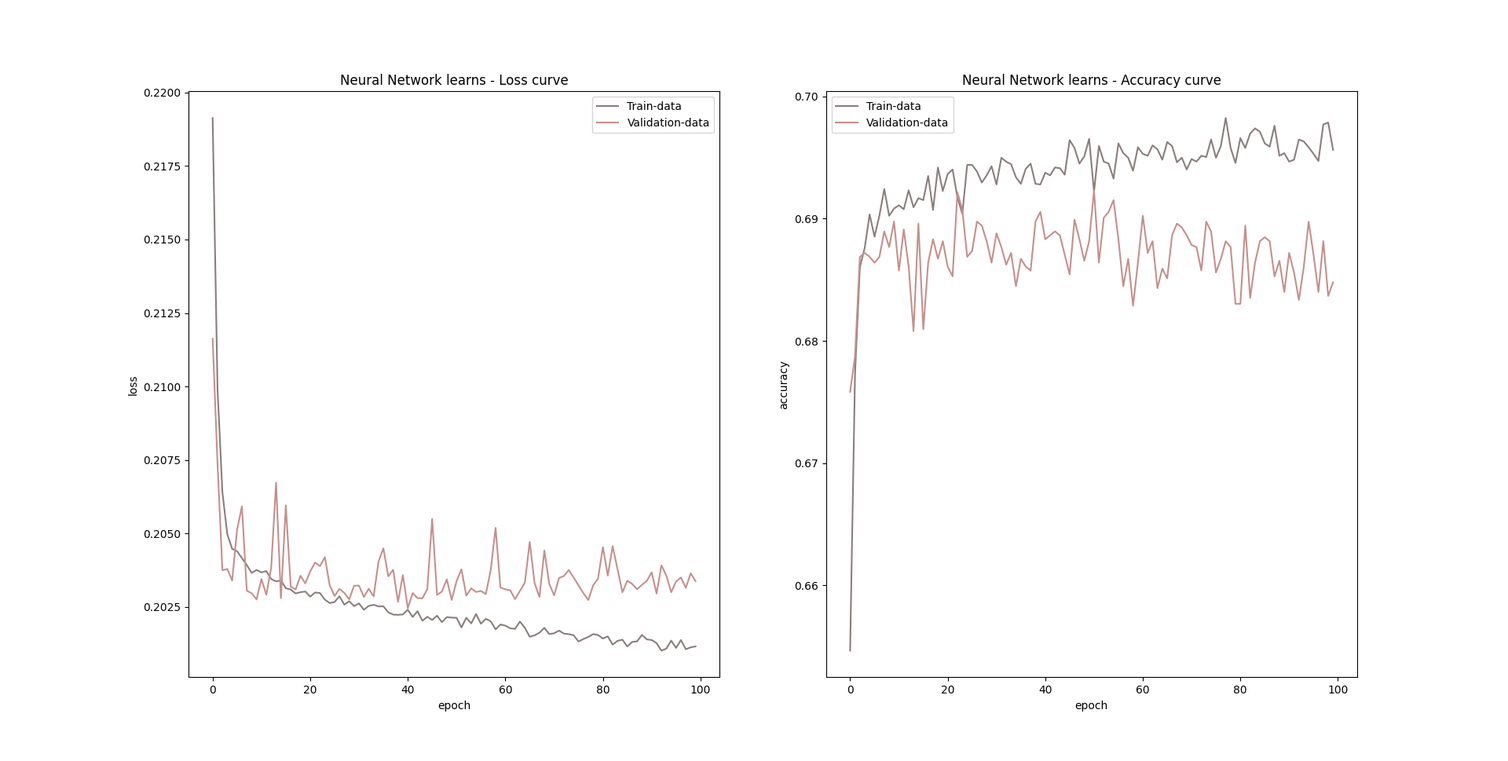
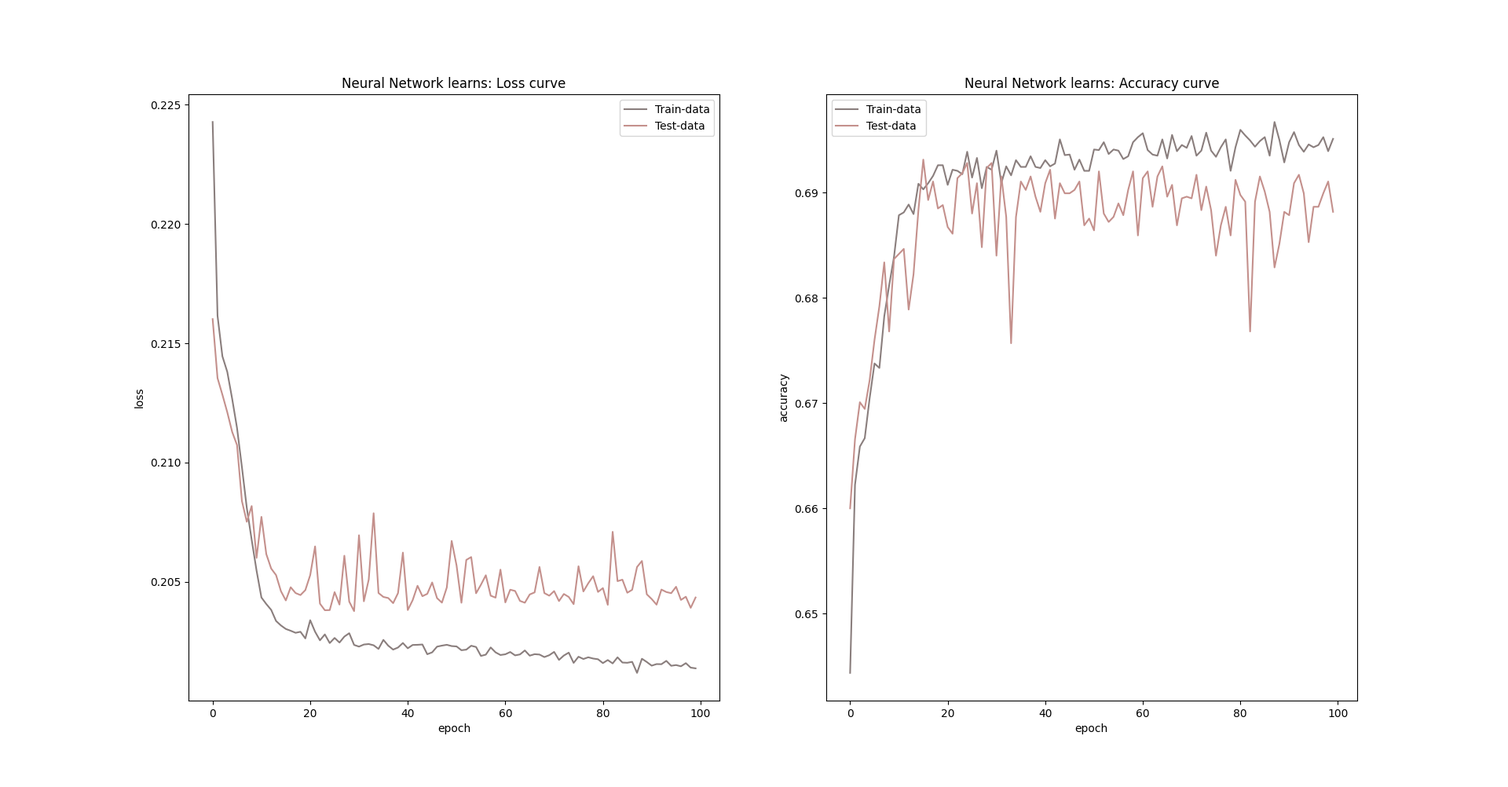
Added Readme.md

diff --git a/Studienarbeit_Data_Mining.tex b/Studienarbeit_Data_Mining.tex
@@ -110,7 +110,7 @@ isbn=false		% Keine Ausbage der ISBN
 \renewcommand*{\labelnamepunct}{\addcolon\addspace}
 
 %Zusätzliche für Umbrüche für Kleinbuchstaben z.B. in URLs
-\appto\lstinlineBreaks{\do\a\do\b\do\c\do\d\do\e\do\f\do\g\do\h\do\i\do\j
+\appto\textitBreaks{\do\a\do\b\do\c\do\d\do\e\do\f\do\g\do\h\do\i\do\j
 	\do\k\do\l\do\m\do\n\do\o\do\p\do\q\do\r\do\s\do\t\do\u\do\v\do\w
 	\do\x\do\y\do\z}
 
@@ -310,36 +310,36 @@ isbn=false		% Keine Ausbage der ISBN
 	\section{Vorwort}
 		\label{ch:vorwort}
 
-	Ziel dieser Arbeit ist es, eine Analyse zu diesem Datensatz: \linebreak \url{https://www.kaggle.com/datasets/muhammad4hmed/monkeypox-patients-dataset}  
-	zu liefern. Der Datensatz behandelt das Thema Affenpocken, dabei sind unterschiedliche Symptomatiken als Feautres gegeben, eine Spalte stellt dar, ob 
-	der Patient an positiv oder negativ auf Affenpocken getestet wurde.
+Ziel dieser Arbeit ist es, eine Analyse zu diesem Datensatz: \linebreak \url{https://www.kaggle.com/datasets/muhammad4hmed/monkeypox-patients-dataset}  
+zu liefern. Der Datensatz behandelt das Thema Affenpocken, dabei sind unterschiedliche Symptomatiken als Feautres gegeben, die Ergebnis-Spalte stellt dar, ob 
+der Patient an positiv oder negativ auf Affenpocken getestet wurde.
 
-	Es findet eine Analyse des vorliegenden Datensatzes statt.  Die Daten werden visuell in Form von Diagrammen aufbereitet und die grobe Werteverteilungen
-	der Symptome beziehungsweise Features vorgestellt. Zudem findet eine Korrelationsanalyse statt, in welcher die 
-	Daten auf gegenseitige Zusammenhänge geprüft werden statt. Danach werden die Daten getestet sowie trainiert, die
-	verwendeten Modelle als auch entsprechenden Genauigkeiten dargestellt. Der letzte Schritt dieser Studienarbeit,
-	besteht daraus, dass ein Neuronales Netz auf die Daten angewendet wird und die entsprechenden Genauigkeiten
-	berechent werden. 
+Es findet eine Analyse des vorliegenden Datensatzes statt.  Die Daten werden visuell in Form von Diagrammen aufbereitet und die grobe Werteverteilungen
+der Symptome beziehungsweise Features vorgestellt. Zudem findet eine Korrelationsanalyse statt, in welcher die 
+Daten auf gegenseitige Zusammenhänge geprüft werden statt. Danach werden die Daten getestet sowie trainiert, die
+verwendeten Modelle als auch entsprechenden Genauigkeiten dargestellt. Der letzte Schritt dieser Studienarbeit,
+besteht daraus, dass ein Neuronales Netz auf die Daten angewendet wird und die entsprechenden Genauigkeiten
+berechent werden. 
 
-	Binär-Klassfikation wird in dieser Studienarbeit als Anwendung verwendet. 
+Binär-Klassfikation wird in dieser Studienarbeit als Anwendung verwendet. 
 	
 
 	\section{Analyse der Daten}
 		\label{ch:analyse_daten}
 
-	In diesem Kapitel wird der Datensatz untersucht. Zunächst findet eine oberflächliche Analyse des Datensatzes statt, in dieser
-	wird festgestellt, wie viele Featues der Datensatz enthält, wie viele Zeilen und Spalten er hat. Der nächste Schritt der Analyse stellt die Korrelationsanalyse
-	statt, dabei ist das Ziel, mögliche Zusammenhänge und Korrelationen in den Features zu erkennen. 
+In diesem Kapitel wird der Datensatz untersucht. Zunächst findet eine oberflächliche Analyse des Datensatzes statt, in dieser
+wird festgestellt, wie viele Featues der Datensatz enthält, wie viele Zeilen und Spalten er hat. Der nächste Schritt der Analyse stellt die Korrelationsanalyse
+statt, dabei ist das Ziel, mögliche Zusammenhänge und Korrelationen in den Features zu erkennen. 
 
 	\subsection{Oberflächliche Datenanalyse}
 		\label{ch:oberflaechliche_analyse}
 
-	Der Datensatz weißt insgesamt 25000 Zeilen und 11 Spalten auf, davon sind 
-	neun Features, einer ist der Index und einer stellt die Ergebnis-Spalte dar. Damit Funktionen, wie \lstinline{pandas.DataFrame.replace} und 
-	\lstinline{pandas.DataFrame.query} problemlos verwendet werden können, war es notwendig, die Leerzeichen in den Spaltenbennenungen mit Unterstrichen zu ersetzen. 
-	So wurde beispielsweise \lstinline{Systmic Illness} zu \lstinline{Systemic_Illness}. \lstinline{Sexually Transmitted Infection} wird aufgrund der Länge, auf
-	\lstinline{STI} gekürzt. Die Spalte \lstinline{Patient_ID} wurde als Index verwendet. 
-	\lstinline{MonkeyPox} stellt die Ergebnis-Spalte dar. Das folgende Bild zeigt die Aufteilung der Spalten und die korrespondierenden Werte:
+Der Datensatz weißt insgesamt 25000 Zeilen und 11 Spalten auf, davon sind 
+neun Features, einer ist der Index und einer stellt die Ergebnis-Spalte dar. Damit Funktionen, wie \textit{pandas.DataFrame.replace} und 
+\textit{pandas.DataFrame.query} problemlos verwendet werden können, war es notwendig, die Leerzeichen in den Spaltenbennenungen mit Unterstrichen zu ersetzen. 
+So wurde beispielsweise \textit{Systemic\textunderscore Illness} zu \textit{Systemic\textunderscore Illness}. \textit{Sexually\textunderscore Transmitted\textunderscore Infection} wird aufgrund der Länge, auf
+\textit{STI} gekürzt. Die Spalte \textit{Patient\textunderscore ID} wurde als Index verwendet. 
+\textit{MonkeyPox} stellt die Ergebnis-Spalte dar. Das folgende Bild zeigt die Aufteilung der Spalten und die korrespondierenden Werte:
 
 	\begin{figure}[H]
 		\centering
@@ -348,12 +348,12 @@ isbn=false		% Keine Ausbage der ISBN
 		\label{fig:data_table}
 	\end{figure}
 
-	Bei den Werten der Features handelt es sich zu einem großen Teil, um \lstinline{bool} Werte. Die Spalte \lstinline{Systemic Illness}, stellt dabei eine Ausnahme dar. In dieser werden
-	vier \lstinline{str} Werte verwendet: \lstinline{None}, \lstinline{Fever}, \lstinline{Swollen Lymph Nodes} und \lstinline{Muscel Aches and Pain} in \lstinline{int} Werte umgewandelt. So wurde \lstinline{None} zu 1,
-	\lstinline{Fever} zu 2, \lstinline{Swollen Lymph Nodes} zu 3 und \lstinline{Muscle Aches and Pain} zu 4. Die Spalte \lstinline{MonkeyPox} enthält die Werte \lstinline{Positive} und \lstinline{Negative} und gibt
-	an, ob der entsprechende Patient an Affenpocken erkrankt ist.
+Bei den Werten der Features handelt es sich zu einem großen Teil, um \textit{bool} Werte. Die Spalte \textit{Systemic Illness}, stellt dabei eine Ausnahme dar. In dieser werden
+vier \textit{str} Werte verwendet: \textit{None}, \textit{Fever}, \textit{Swollen Lymph Nodes} und \textit{Muscel Aches and Pain} in \textit{int} Werte umgewandelt. So wurde \textit{None} zu 1,
+\textit{Fever} zu 2, \textit{Swollen Lymph Nodes} zu 3 und \textit{Muscle Aches and Pain} zu 4. Die Spalte \textit{MonkeyPox} enthält die Werte \textit{Positive} und \textit{Negative} und gibt
+an, ob der entsprechende Patient an Affenpocken erkrankt ist.
 
-	Die Werteverteilung der Features, welche \lstinline{bool} Werte enhalten, ist in dieser Tabelle aufgelistet: 
+Die Werteverteilung der Features, welche \textit{bool} Werte enhalten, ist in dieser Tabelle aufgelistet: 
 	
 	\begin{singlespace}
 	\begin{table}[H]
@@ -372,37 +372,37 @@ isbn=false		% Keine Ausbage der ISBN
 \end{singlespace}
 	
 
-	Es lässt sich feststellen, dass die Werteverteilung innerhalb der \lstinline{bool} Features sehr gleichmäßig ist. 
-	In Bezug auf das Feature (\lstinline{SystemicIllness}), welches ausschließlich \lstinline{str} enthält,  lässt sich die 
-	Werteverteilung, durch dieses Diagramm visualisieren: 
+Es lässt sich feststellen, dass die Werteverteilung innerhalb der \textit{bool} Features sehr gleichmäßig ist. 
+In Bezug auf das Feature (\textit{SystemicIllness}), welches ausschließlich \textit{str} enthält,  lässt sich die 
+Werteverteilung, durch dieses Diagramm visualisieren: 
 
 	\begin{figure}[H]
 		\centering
 		\includegraphics[width=0.8\linewidth]{Bilder/systemic_illness_plot.png}
-		\captionof{figure}[Werteverteilung des Feature \lstinline{Systemic_Illness}]{Werteverteilung des Feature \lstinline{Systemic_Illness}}
+		\captionof{figure}[Werteverteilung des Feature \textit{Systemic\textunderscore Illness}]{Werteverteilung des Feature \textit{Systemic\textunderscore Illness}}
 		\label{fig:systemic_illness_plot}
 	\end{figure}
 
-	Bei Betrachtung von Abbildung \ref{fig:systemic_illness_plot} stellt man fest, dass Patienten, die an \lstinline{Fever} oder \lstinline{Swollen_Lymph_Nodes} leiden, zu einer
-	vielen höheren Wahrscheinlichkeit an Affenpocken erkranken, als Patienten, die an keiner Symptomatik (\lstinline{None}) oder an \lstinline{Muscle_Aches_and_Pain} leiden.
+Bei Betrachtung von Abbildung \ref{fig:systemic_illness_plot} stellt man fest, dass Patienten, die an \textit{Fever} oder \textit{Swollen\textunderscore Lymph\textunderscore Nodes} leiden, zu einer
+vielen höheren Wahrscheinlichkeit an Affenpocken erkranken, als Patienten, die an keiner Symptomatik (\textit{None}) oder an \textit{Muscle\textunderscore Aches\textunderscore and\textunderscore Pain} leiden.
 
-	In Betracht auf Spalte \lstinline{MonkeyPox} lässt sich sagen, dass 15909 Patienten an Affenpocken erkrankt sind, während 9091 \lstinline{Negative} sind,
-	also nicht an Affenpocken erkrankt sind. Diese Werteverteilung würde sich visuell folgendermaßen äußern:
+In Betracht auf Spalte \textit{MonkeyPox} lässt sich sagen, dass 15909 Patienten an Affenpocken erkrankt sind, während 9091 \textit{Negative} sind,
+also nicht an Affenpocken erkrankt sind. Diese Werteverteilung würde sich visuell folgendermaßen äußern:
 
 	\begin{figure}[H]
 		\centering
 		\includegraphics[width=0.8\linewidth]{Bilder/monkey_pox_plot.png}
-		\captionof{figure}[Werteverteilung der Ergebnis-Spalte \lstinline{MonkeyPox}]{Werteverteilung der Ergebnis-Spalte \lstinline{MonkeyPox}}
+		\captionof{figure}[Werteverteilung der Ergebnis-Spalte \textit{MonkeyPox}]{Werteverteilung der Ergebnis-Spalte \textit{MonkeyPox}}
 		\label{fig:monkey_pox_plot}
 	\end{figure}
 
 	\subsection{Korrelationsanalyse}
 		\label{ch:korrleations_analyse}
 
-	Zur Prüfung, ob Zusammenhänge zwischen den einzelnen Feautres besteht, wird eine Heatmap verwendet. 
-	Eine Heatmap ist eine Zusammenstellung von Rechtecken. Sie kann genutzt werden, um Muster und Veränderungen im
-	Zeitverlauf zu betrachten. Die x-Achse wird oft mit einem Zeitmaß bezeichnet. Die y-Achse stellt eine Variable dar, 
-	welche die Kategorie in den Daten definiert. In Betracht auf den vorliegenden Datensatz ergibt sich die folgende Heatmap:
+Zur Prüfung, ob Zusammenhänge zwischen den einzelnen Feautres besteht, wird eine Heatmap verwendet. 
+Eine Heatmap ist eine Zusammenstellung von Rechtecken. Sie kann genutzt werden, um Muster und Veränderungen im
+Zeitverlauf zu betrachten. Die x-Achse wird oft mit einem Zeitmaß bezeichnet. Die y-Achse stellt eine Variable dar, 
+welche die Kategorie in den Daten definiert. In Betracht auf den vorliegenden Datensatz ergibt sich die folgende Heatmap:
 
 	\begin{figure}[H]
 		\centering
@@ -411,54 +411,54 @@ isbn=false		% Keine Ausbage der ISBN
 		\label{fig:heatmap}
 	\end{figure}
 	
-	Beim Betracht von Abbildung \ref{fig:heatmap}, lässt sich also feststellen, das die berechneten Wahrscheinlichkeiten sich in einem Promille beziehungsweise 
-	negativen Bereich befinden. Es bestehen somit keine Zusammenhänge und Korrelationen zwischen den verschiedenen Features. 
+Beim Betracht von Abbildung \ref{fig:heatmap}, lässt sich also feststellen, das die berechneten Wahrscheinlichkeiten sich in einem Promille beziehungsweise 
+negativen Bereich befinden. Es bestehen somit keine Zusammenhänge und Korrelationen zwischen den verschiedenen Features. 
 
-	Ein weiterer Schritt in der Korrelationsananlyse, stellt die Betrachtung der Lift und Konfidenz Werte dar. Dabei ist es notwendig, den 
-	Datensatz in so weit zu bearbeiten, dass die verschiedenen Werte von \lstinline{Systemic_Illness}, als eigene Spalten betrachtet werden. 
-	Dies ist gefordert, da die verschiedenen Krankheisbilder der Spalte \lstinline{Systemic_Illness} als eigene Symptome (Features) verstanden werden sollen und somit mehrere Featurekombinationen 
-	getestet werden können. Demnach sieht der überarbeitete Datensatz folgendermaßen aus: 
+Ein weiterer Schritt in der Korrelationsananlyse, stellt die Betrachtung der Lift und Konfidenz Werte dar. Dabei ist es notwendig, den 
+Datensatz in so weit zu bearbeiten, dass die verschiedenen Werte von \textit{Systemic\textunderscore Illness}, als eigene Spalten betrachtet werden. 
+Dies ist gefordert, da die verschiedenen Krankheisbilder der Spalte \textit{Systemic\textunderscore Illness} als eigene Symptome (Features) verstanden werden sollen und somit mehrere Featurekombinationen 
+getestet werden können. Demnach sieht der überarbeitete Datensatz folgendermaßen aus: 
 
 	\begin{figure}[H]
 		\centering
 		\includegraphics[width=0.8\linewidth]{Bilder/tranp_df.png}
-		\captionof{figure}[Ausschnitt aus Datensatz mit transponiertem Feature \lstinline{Systemic_Illness}]{Ausschnitt aus Datensatz mit transponiertem Feature \lstinline{Systemic_Illness}}
+		\captionof{figure}[Ausschnitt aus Datensatz mit transponiertem Feature \textit{Systemic\textunderscore Illness}]{Ausschnitt aus Datensatz mit transponiertem Feature \textit{Systemic\textunderscore Illness}}
 		\label{fig:transp_feature}
 	\end{figure}
 
-	Die Analyse dieser Werte stützt die gesammelten Erkenntnisse aus der Heatmap. Die maximale Konfidenz ist 0.604167, der entsprechende Lift:
-	1.104538. Es ist demnach festzustellen, dass die Werte sich gegenseitig wenig bis garnicht beeinflussen beziehungsweise nicht zusammenhängen. 
+Die Analyse dieser Werte stützt die gesammelten Erkenntnisse aus der Heatmap. Die maximale Konfidenz ist 0.604167, der entsprechende Lift:
+1.104538. Es ist demnach festzustellen, dass die Werte sich gegenseitig wenig bis garnicht beeinflussen beziehungsweise nicht zusammenhängen. 
 
 
 	\section{Genauigkeitsanalyse}
 		\label{ch:genauigkeit_analyse}
 
-	In diesem Kapitel werden verschiedene Genauigkeiten mit mehreren Modellen und Feature-Kombinationen ermittelt. Dabei wird versucht, die best mögliche Genauigkeit herauszufinden. 
-	Danach wird das ausgewählte Modell, grafisch auf Overfitting überprüft.  
+In diesem Kapitel werden verschiedene Genauigkeiten mit mehreren Modellen und Feature-Kombinationen ermittelt. Dabei wird versucht, die best mögliche Genauigkeit herauszufinden. 
+Danach wird das ausgewählte Modell, grafisch auf Overfitting überprüft.  
 
 	\subsection{Wahl des Modells}
 		\label{ch:wahl_modell}
 
-	Zum Einen wird eine Untersuchung mit Bayes (\lstinline{GaussianNB()}) getätigt. Ein Zufallsstrom stellt bei der Größe dieses Datensatzes eher eine geringfügige
-	Rolle, deshalb wurde auf diesen Parameter verzichtet. 67.82 ist dabei die berechnete Genauigkeit. Der $R²$ Wert der Testdaten entspricht 0.68 und der $R³$ Wert der
-	Trainingsdaten ist ebenfalls 0.68.  Die Genauigkeit sowie die korrepsondierenden Approximationen sind zwar solide, lassen sich dennoch noch optimieren. 
+Zum Einen wird eine Untersuchung mit Bayes (\textit{GaussianNB()}) getätigt. Ein Zufallsstrom stellt bei der Größe dieses Datensatzes eher eine geringfügige
+Rolle, deshalb wurde auf diesen Parameter verzichtet. 67.82 ist dabei die berechnete Genauigkeit. Der $R²$ Wert der Testdaten entspricht 0.68 und der $R³$ Wert der
+Trainingsdaten ist ebenfalls 0.68.  Die Genauigkeit sowie die korrepsondierenden Approximationen sind zwar solide, lassen sich dennoch noch optimieren. 
 
-	In der Datei \lstinline{utils.py} wird eine Funktion (\lstinline{create_feature_accuracy_dict()}) entwickelt, bei welcher jede mögliche Feature-Kombination für drei Modellen angewendet wird. Bei den drei Modellen handelt es sich um 
-	\lstinline{DecisionTreeClasifier()}, \lstinline{RandomForestclassifier()} und \lstinline{GaussianNB()}. Die Feature-Kombinationen (Key) und die korrespondierenden Genauigkeiten (Value) werden in 
-	einer Dictionary gespeichert. Diese Dictionary lässt sich anhand der Genauigkeit absteigend sortieren. Somit kommt man zu dem Ergebnis, das für das Modell \lstinline{RandomForestclassifier} und 
-	den Features: \lstinline{Systemic_llness}, \lstinline{Rectao_Pain}, \lstinline{Sore_Throat}, \lstinline{Penile_Oedema}, \lstinline{HIV_Infection} und \lstinline{STI} eine Genauigkeit von 68.832 berechnet wird. Dabei stellt
-	68.842 die best-mögliche Genauigkeit im ganzen Modell dar. 
+In der Datei \textit{utils.py} wird eine Funktion (\textit{create\textunderscore feature\textunderscore accuracy\textunderscore dict()}) entwickelt, bei welcher jede mögliche Feature-Kombination für drei Modellen angewendet wird. Bei den drei Modellen handelt es sich um 
+\textit{DecisionTreeClasifier()}, \textit{RandomForestClassifier()} und \textit{GaussianNB()}. Die Feature-Kombinationen (Key) und die korrespondierenden Genauigkeiten (Value) werden in 
+einer Dictionary gespeichert. Diese Dictionary lässt sich anhand der Genauigkeit absteigend sortieren. Somit kommt man zu dem Ergebnis, das für das Modell \textit{RandomForestClassifier} und 
+den Features: \textit{Systemic\textunderscore  Illness}, \textit{Rectal\textunderscore Pain}, \textit{Sore\textunderscore Throat}, \textit{Penile\textunderscore Oedema}, \textit{HIV\textunderscore Infection} und \textit{STI} 
+eine Genauigkeit von 68.832 berechnet wird. Dabei stellt 68.842 die best-mögliche Genauigkeit im ganzen Modell dar. 
 
 	\subsection{Prüfung auf Overfitting}
 		\label{ch:pruefung_overfitting}
 
-	Aufbauend auf Kapitel \ref{ch:wahl_modell} ist es wichtig, festzustellen, ob beziehungsweise wann Overfitting in dem gewählten Modell auftritt. Overfitting beschreibt das Phänomen, dass
-	sich Daten zu sehr den Trainingsdaten anpassen, hierbei besteht die Gefahr, dass der Algorithmus den Datensatz auswendig, aber nicht die zugrundeliegenden Muster und Zusammenhänge erkennt.
-	
-	Um Overfitting in dem vorliegenden Datensatz zu erkennen, wird in der \lstinline{utils.py} eine weitere Funktion \lstinline{check_over_fitting}, in welcher
-	die Genauigkeit, anhand der berechneten Test- und Trainingsdaten und dem ausgewählten Modell (\lstinline{RandomForestclassifier}) aus 
-	Kapitel \ref{ch:wahl_modell} für die Baumtiefen 2 bis 21 berechnet wird. Die Test- und Trainingsdaten werden dabei im Verhältnis 50 - 50 geteilt. 
-	Dies wird grafisch in Form eines Plots ausgewertet: 
+Aufbauend auf Kapitel \ref{ch:wahl_modell} ist es wichtig, festzustellen, ob beziehungsweise wann Overfitting in dem gewählten Modell auftritt. Overfitting beschreibt das Phänomen, dass
+sich Daten zu sehr den Trainingsdaten anpassen, hierbei besteht die Gefahr, dass der Algorithmus den Datensatz auswendig, aber nicht die zugrundeliegenden Muster und Zusammenhänge erkennt.
+
+Um Overfitting in dem vorliegenden Datensatz zu erkennen, wird in der \textit{utils.py} eine weitere Funktion \textit{check\textunderscore over\textunderscore fitting}, in welcher
+die Genauigkeit, anhand der berechneten Test- und Trainingsdaten und dem ausgewählten Modell (\textit{RandomForestClassifier}) aus 
+Kapitel \ref{ch:wahl_modell} für die Baumtiefen 2 bis 21 berechnet wird. Die Test- und Trainingsdaten werden dabei im Verhältnis 50 - 50 geteilt. 
+Dies wird grafisch in Form eines Plots ausgewertet: 
 
 	\begin{figure}[H]
 		\centering
@@ -467,17 +467,17 @@ isbn=false		% Keine Ausbage der ISBN
 		\label{fig:overfitting}
 	\end{figure}
 
-	Bei Betrachtung von Abbildung \ref{fig:overfitting} stellt man fest, dass ab einer Baumtiefe von 11, die Test- und Trainingsdaten parallel 
-	verlaufen, dies könnte ein Indiz für Overfitting sein. Demnach sollte die maximale Tiefe des Baumes in
-	\lstinline{RandomForestclassifier} mit der Variable \lstinline{max_depth} auf 11 festgelegt werden.  
+Bei Betrachtung von Abbildung \ref{fig:overfitting} stellt man fest, dass ab einer Baumtiefe von 11, die Test- und Trainingsdaten parallel 
+verlaufen, dies könnte ein Indiz für Overfitting sein. Demnach sollte die maximale Tiefe des Baumes in
+\textit{RandomForestclassifier} mit der Variable \textit{max\textunderscore depth} auf 11 festgelegt werden.  
 
 
 	\subsection{Darstellung als Entscheidungsbaum}
 		\label{ch:entscheidungsbaum}
 
-	Das Aufzeigen eines Entscheidungsbaums wird gewählt, um anhand von verschiedenen, visualisierten Antwortoptionen auf auf eine Affenpocken Erkrankung zu schließen.
-	Da es sich in dieser Studienarbeit, um einen sehr großen Datensatz handelt, ist es notwendig, den Entscheidungsbaum durch den Parameter \lstinline{min_sample_split} etwas zu kürzen. Dieser wird in der folgenden Abbildung auf 
-	0.2 gesetzt. 
+Das Aufzeigen eines Entscheidungsbaums wird gewählt, um anhand von verschiedenen, visualisierten Antwortoptionen auf eine Affenpocken Erkrankung zu schließen.
+Da es sich in dieser Studienarbeit, um einen sehr großen Datensatz handelt, ist es notwendig, den Entscheidungsbaum durch den Parameter \textit{min\textunderscore sample\textunderscore split}
+etwas zu kürzen. Dieser wird in der folgenden Abbildung auf 0.2 gesetzt. 
 
 	\begin{figure}[H]
 		\centering
@@ -486,29 +486,31 @@ isbn=false		% Keine Ausbage der ISBN
 		\label{fig:decisiontree}
 	\end{figure}
 
-	Es lässt sich also sagen, dass die True- und False-Werte, der Endknoten zu nahe beinander liegen, um klare Ansagen zu treffen. 
-	Demnach lässt sich anhand des Baumes schwer ein Muster ablesen beziehungsweise nicht auf eine Affenpocken Erkrankung schließen.  
+Es lässt sich also sagen, dass die True- und False-Werte, der Endknoten zu nahe beinander liegen, um klare Ansagen zu treffen. 
+Demnach lässt sich anhand des Baumes schwer ein Muster ablesen beziehungsweise nicht auf eine Affenpocken Erkrankung schließen.  
 
-	\section{Erstellung eines Neurolen Netzes}
+	\section{Erstellung eines neuronalen Netzes}
 		\label{ch:neuronlaes_netz}
 
-	Am Ende der Datenanalyse wird ein neuronales Netz erstellt. Der erste Schritt, besteht darin, die Daten für die Arbeit mit 
-	\lstinline{tensorflow} vorzubereiten. Hierbei werden die enthaltenen \lstinline{bool} und \lstinline{int} Werte in 
-	\lstinline{float} Werte umgewandelt, dies wird durch die Funktion \lstinline{prepare_for_tensor}
-	in der \lstinline{utils.py} Datei bewärkstelligt. 
-	
-	Der zweite Schritt, besteht in der Defintion des neuronalen Netzes, dieses ist folgendermaßen aufgebaut:
+Am Ende der Datenanalyse wird ein neuronales Netz erstellt. Der erste Schritt, besteht darin, die Daten für die Arbeit mit 
+\textit{tensorflow} vorzubereiten. Hierbei werden die enthaltenen \textit{bool} und \textit{int} Werte in 
+\textit{float} Werte umgewandelt, dies wird durch die Funktion \textit{prepare\textunderscore for\textunderscore tensor}
+in der \textit{utils.py} Datei bewärkstelligt. Auf Funktionen der Bibliothek \textit{sklearn.preprocessing} wie 
+beispielsweise \textit{MinMaxScaler} konnte aufgrund des einheilichen sowie kleinen Wertebereichs verzichtet werden. 
 
-	\lstinputlisting[label=lst:neuronal_network, captionpos=b,caption=Code des neuronalen Netzes]{Listing/neuronal_network.py}
+Der zweite Schritt, besteht in der Defintion des neuronalen Netzes, dieses ist folgendermaßen aufgebaut:
 
-	Bei Betrachtung von Listing \ref{lst:neuronal_network} stellt man fest, dass für den Aufbau des Netzes insgesamt 4 
-	Schichten verwendet werden. Je eine \lstinline{input}- sowie \lstinline{output}-Schicht und 2 versteckte Schichten.
-	Die Anzahl der Neuronen innerhalb der versteckten Schichten ist auf 20 festgelegt, bei der \lstinline{input}-
-	Schicht liegt sie bei 14. Die verwendeten Aktivierungsfunktionen beschränken sich auf \lstinline{relu} und 
-	\lstinline{sigmoid}. In Bezug auf die Verlustfunktion, ist \lstinline{mse} die beste Wahl. 
-	
-	Es ergibt sich somit eine berechnete Genauigkeit von 0.64 und ein Verlust von 0.24. Graphisch sieht das 
-	folgendermaßen aus: 
+\lstinputlisting[label=lst:neuronal_network, captionpos=b,caption=Code des neuronalen Netzes]{Listing/neuronal_network.py}
+
+Bei Betrachtung von Listing \ref{lst:neuronal_network} stellt man fest, dass für den Aufbau des Netzes insgesamt 5
+Schichten verwendet werden. Je eine \textit{input}- sowie \textit{output}-Schicht und aufgrund der 
+größe des Datensatzes, 3 versteckte Schichten.
+Die Anzahl der Neuronen innerhalb der versteckten Schichten ist auf 15 festgelegt, bei der \textit{input}-
+Schicht liegt sie bei 9. Die verwendeten Aktivierungsfunktionen beschränken sich auf \textit{relu} und 
+\textit{sigmoid}. Die Verlustfunktion \textit{mse} hat sich im Laufe dieser Untersuchung, als die beste Wahl herausgestellt.
+
+Es ergibt sich somit eine berechnete Genauigkeit von 0.69 und ein Verlust von 0.20. Graphisch sieht das 
+folgendermaßen aus: 
 
 	\begin{figure}[H]
 		\centering
@@ -517,10 +519,22 @@ isbn=false		% Keine Ausbage der ISBN
 		\label{fig:neural_network}
 	\end{figure}
 
-	Es ist ein Abfall im Verlust der Test- und Trainingsdaten zu verzeichnen. Der Loss der Trainingsdaten ist aber stärker als der der 
-	Testdaten, denn diese schwanken in den lezten eher, anstelle das sie fallen. Die ermittelte Genauigkeit der Trainings- und Testdaten 
-	schwankt zwar, ist aber insgesamt stabil. 
-	
+Es ist ein Abfall im Verlust der Test- und Trainingsdaten zu verzeichnen. Der Verlust der Trainingsdaten ist aber stärker als der der 
+Testdaten, denn diese schwanken in den lezten eher, anstelle das sie fallen. Die ermittelte Genauigkeit der Trainings- und Testdaten 
+schwankt zwar, ist aber insgesamt stabil. 
+
+
+	\section{Bewertung der Ergebnisse}
+		\label{ch:bewertungs_ergebnisse}
+
+Nach einer ausgiebigen Analyse des vorliegenden Datensatzes, kann man keine eindeutigen Schlüsse aus diesem Datensatz ziehen.
+Man kann weder anhand eines bestimmten Features auf eine Affenpocken Erkrankung schließen, noch besteht ein Zusammenhang/ Korrelationen
+zwischen den Features. Die Datenanalyse mithilfe verschiedener Modelle blieb ebenfall erfolglos, so konnte mithilfe verschiedener 
+Feature-Kombinationen und eines \textit{RandomForestClassifier} nur eine Genauigkeit von 0.7 ermittelt werde.
+
+Der Grund für diese eher erfolglose Datenanalyse liegt vorraussichtlich an der Homogenität der Daten. 
+
+
 
 		\pagebreak
 		%-------------------------------------------------------------------------------------

diff --git a/Listing/neuronal_network.py b/Listing/neuronal_network.py
@@ -1,0 +1,15 @@
+model = Sequential()
+
+X, y = utils.prepare_for_tensor(X_data, target)
+
+
+model.add(Dense(14, input_dim=X_data.shape[1], activation='sigmoid', name='input'))
+
+
+model.add(Dense(15, activation='relu', name='layer1'))
+model.add(Dense(15, activation='relu', name='layer2'))
+model.add(Dense(15, activation='relu', name='layer2'))
+model.add(Dense(1, activation='sigmoid', name='output'))
+
+model.compile(optimizer='adam', loss='mse', metrics=['accuracy'])
+

diff --git a/README.md b/README.md
@@ -1,0 +1,9 @@
+# Projekt in Data Mining
+### *Analyse eines MonkeyPox Datensatzes* 
+
+Im Rahmen des Wahlfaches "Data Mining" galt es, einen Datensatz zu analysieren. Ich habe
+mich dabei für einen Datensatz über die Krankheit Affenpocken entschieden. Der Datensatz findet sich 
+[hier](https://www.kaggle.com/datasets/muhammad4hmed/monkeypox-patients-dataset).
+Binär-Klassifikation, stellt dabei die verwendete Anwendung dar. 
+
+Die Berechnungen zu dieser Untersuchung, finden sich in dieser [Repository](https://github.com/linusschlepp/Data-Mining-Project). 
